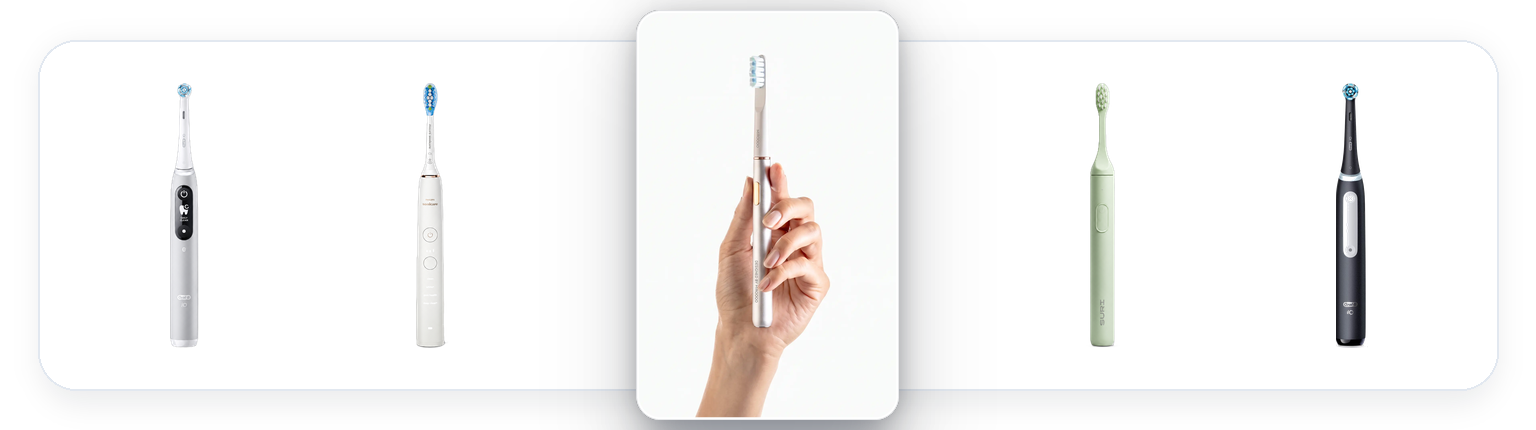
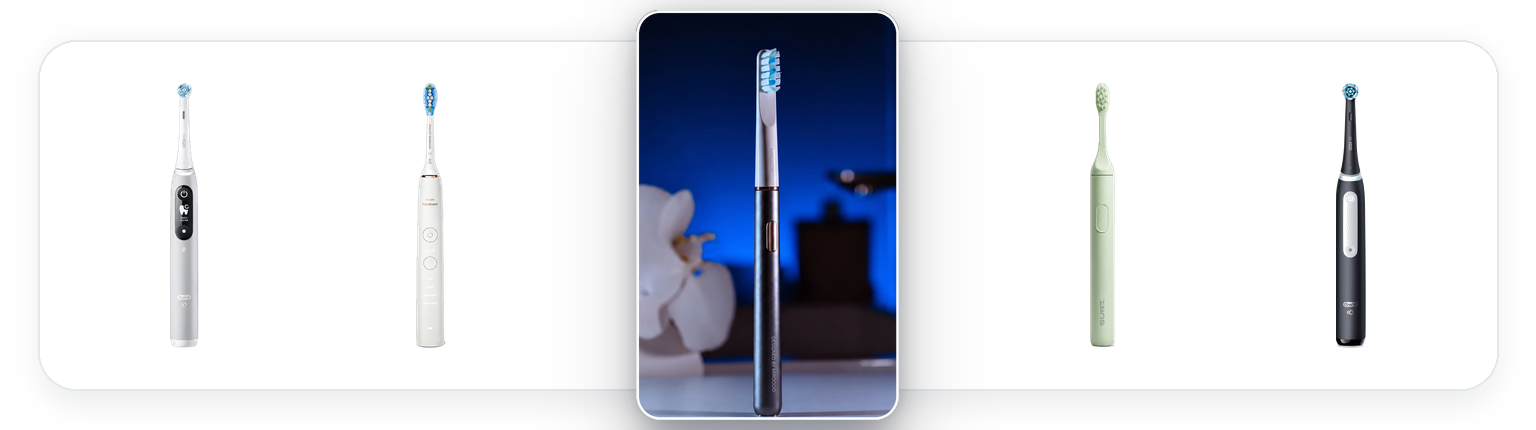
feat: add LuxuryToothbrushLandingPage component with UK editorial styling and product data

Changed region(s): [[0.4062, 0.0302, 0.5938, 0.9977]]

diff --git a/src/components/LuxuryToothbrushLandingPage.tsx b/src/components/LuxuryToothbrushLandingPage.tsx
@@ -284,8 +284,8 @@ export function LuxuryToothbrushLandingPage() {
           />
           <div className="absolute left-1/2 top-1/2 -translate-x-1/2 -translate-y-1/2 z-20 w-[18%] min-w-[110px] max-w-[280px]">
             <img
-              src="/img/toothbrushes/miroooo-brush-x-sonic-electric-toothbrush-in-hand-banner.webp"
-              alt="Miroooo Brush X Sonic Electric Toothbrush in Hand - #1 Best Electric Toothbrush UK 2026"
+              src="/img/toothbrushes/miroooo-brush-x-sonic-electric-toothbrush-studio-banner.webp"
+              alt="Miroooo Brush X Sonic Electric Toothbrush - #1 Best Electric Toothbrush UK 2026"
               className="w-full aspect-[696/1087] rounded-xl sm:rounded-2xl md:rounded-3xl object-cover shadow-[0_18px_45px_rgba(0,0,0,0.32),0_8px_20px_rgba(0,0,0,0.18)] border-2 border-white ring-1 ring-slate-900/10 pointer-events-none"
             />
           </div>
